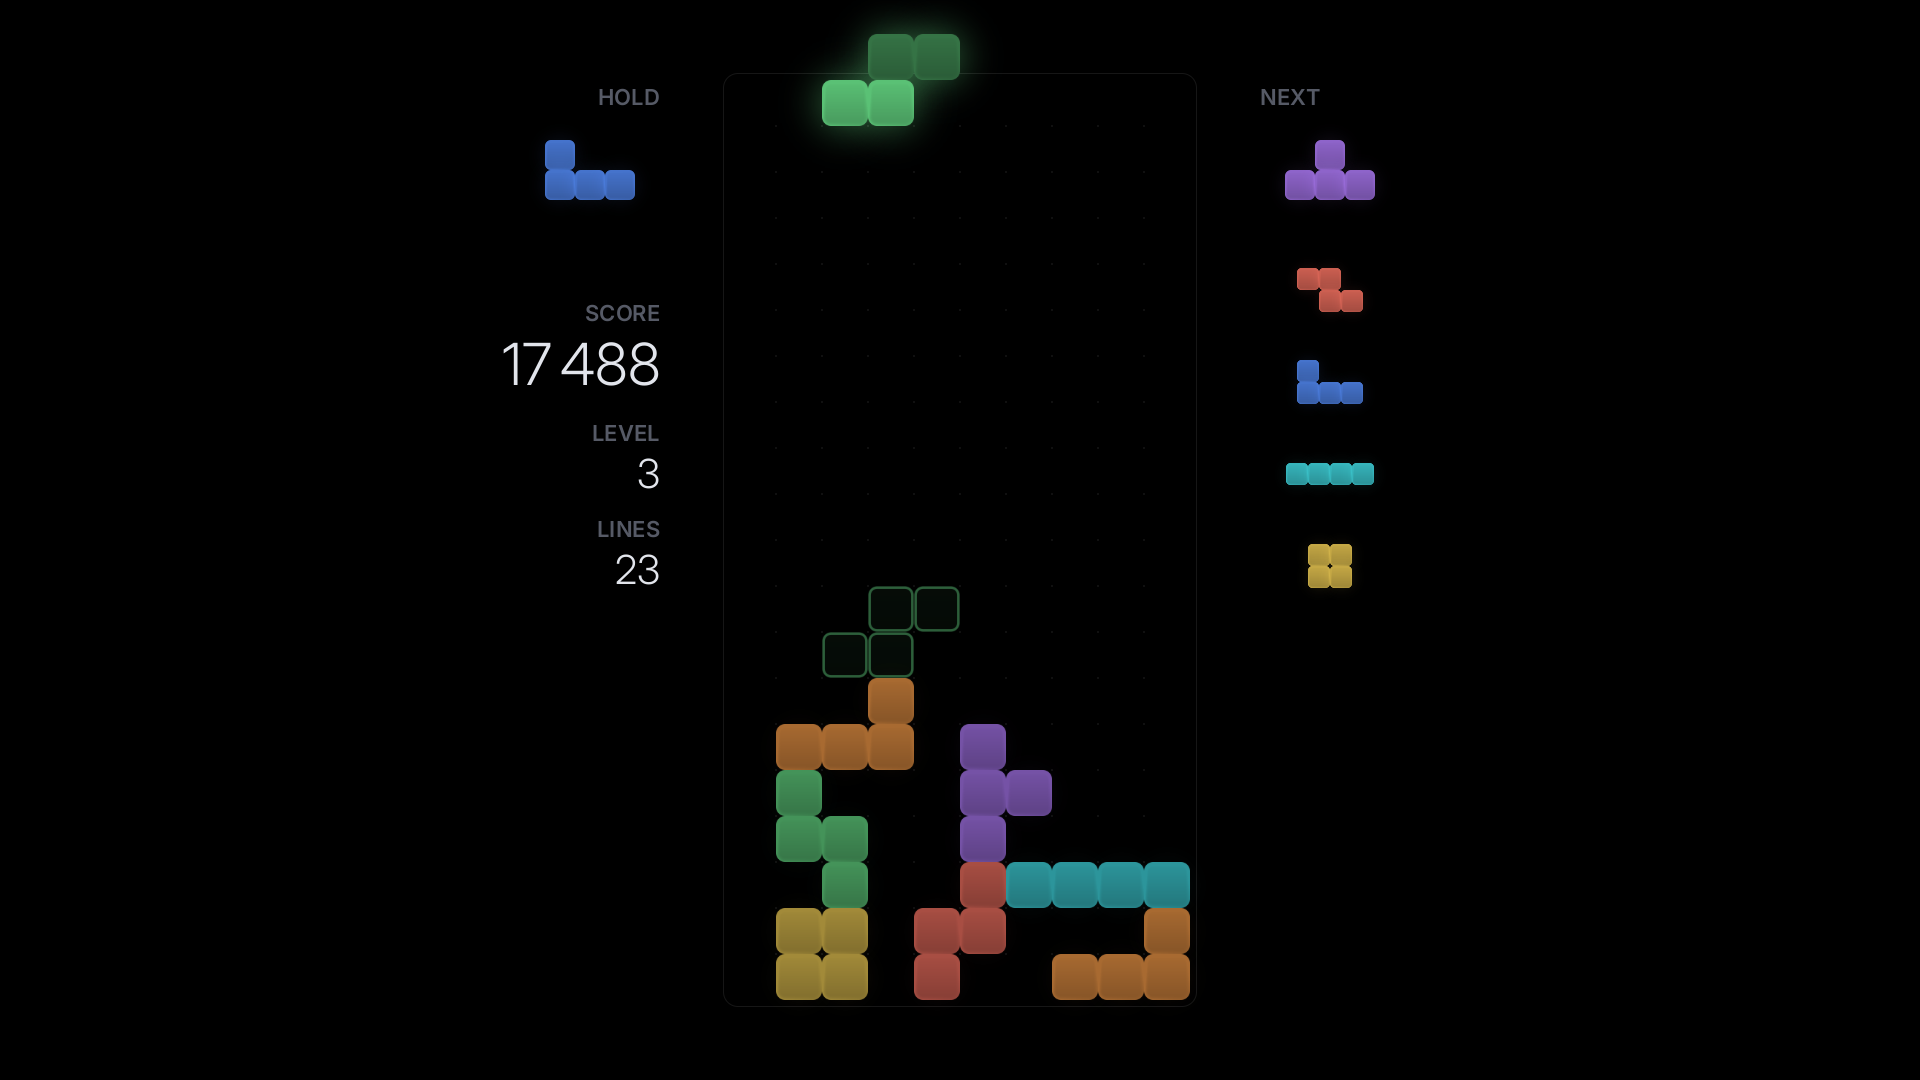
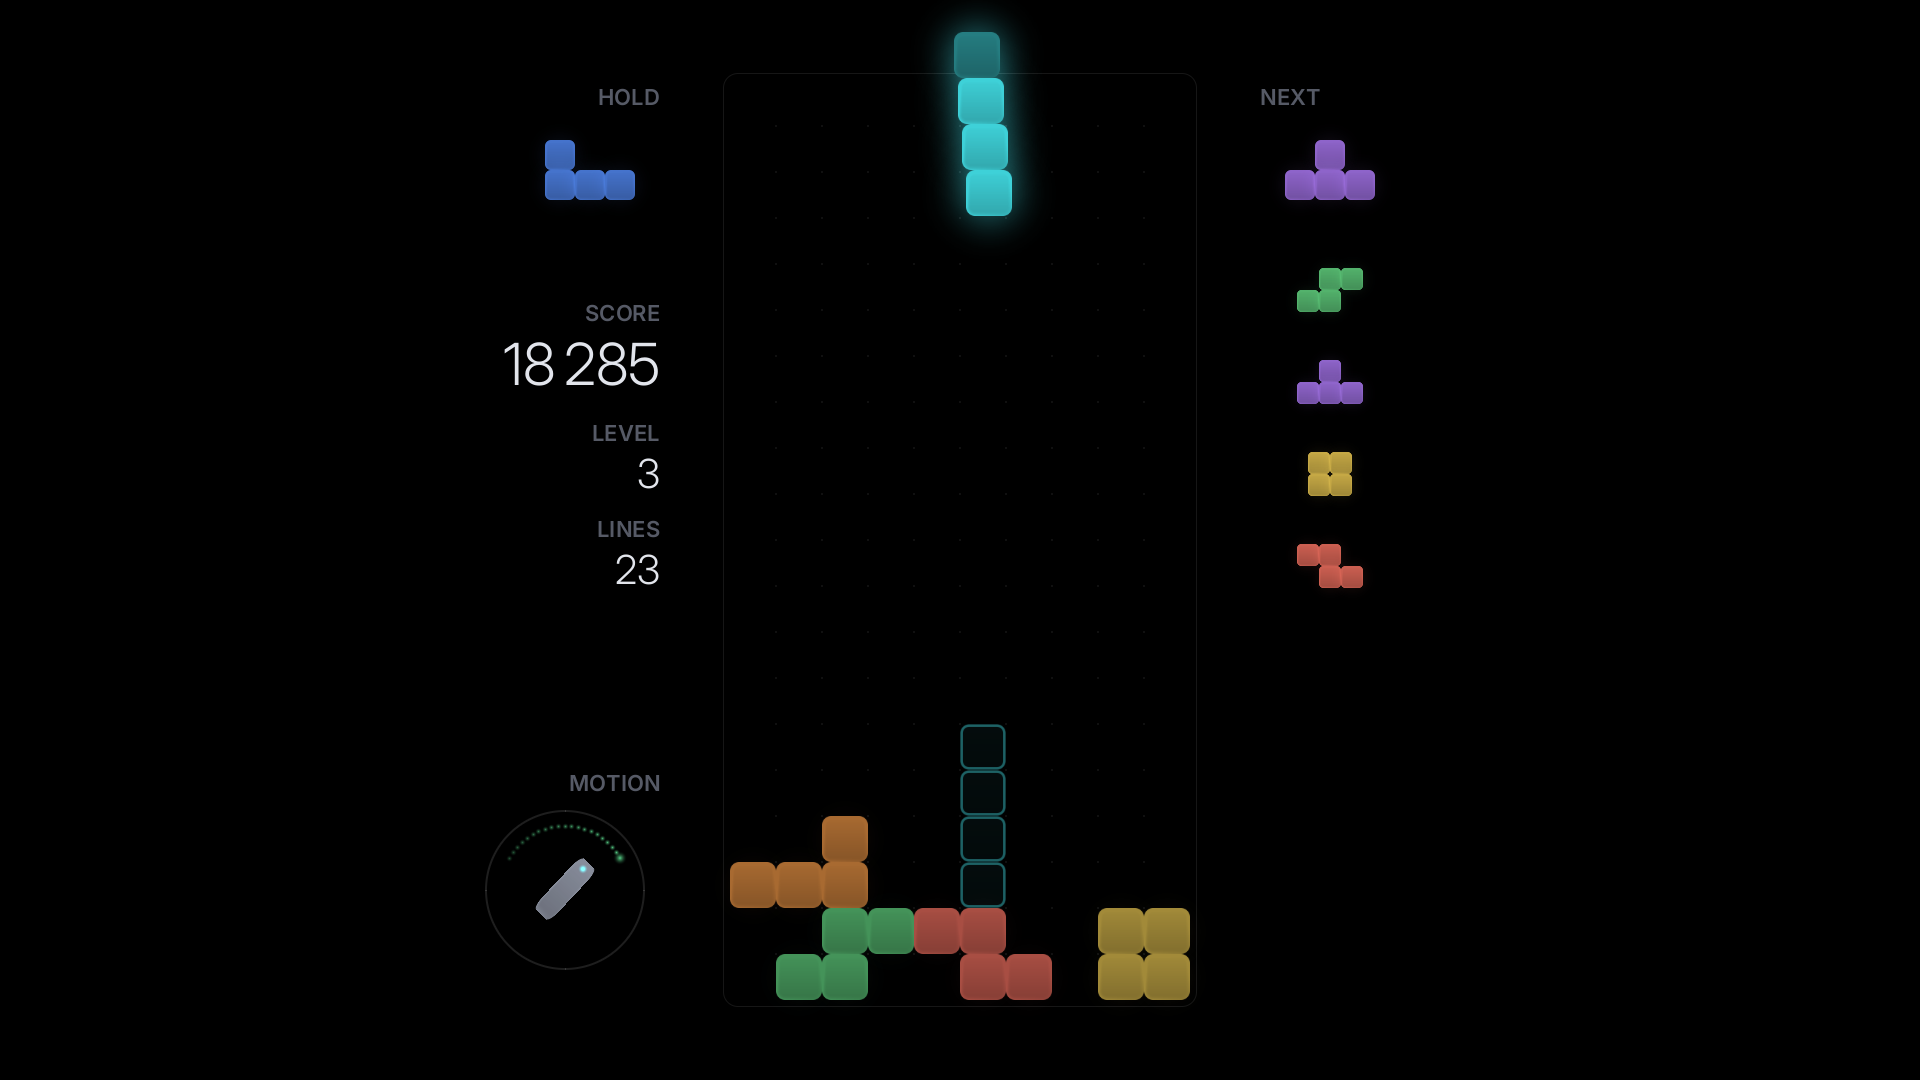
Live remote indicator while playing with motion (0.2.8)
Requested: a small remote-shaped indicator on screen during motion play, like
the one in Input diagnostics, for feedback while playing.

- illus::remote_live: a small remote under the stats (MOTION) offset by the
  recent aim movement and rotated by the wrist twist; an arc fills toward a
  rotation (twist delta or circle turning over its threshold); each
  recognized gesture flashes green (arc arrow for rotations, dots sliding
  left/right/down for moves and drops); dims while no data arrives.
- Shown in motion control only; Settings "Remote indicator in play" (on by
  default) turns it off.
- Screenshot tour adds game-remote-twist/flash; README game screenshot shows
  the indicator mid-twist.

Claude-Session: https://claude.ai/code/session_01FQRzQ83ZDMqhWrPg6UQMbf

diff --git a/crates/luma-app/src/illus.rs b/crates/luma-app/src/illus.rs
@@ -322,3 +322,100 @@ pub fn mini_t(g: &mut Gfx, cx: i32, cy: i32, s: f32, deg: f32) {
         );
     }
 }
+
+/// What the in-game remote indicator shows.
+pub struct RemoteLive {
+    /// Recent movement of the aim, screen heights (drifts back to the centre).
+    pub aim: (f32, f32),
+    /// Wrist twist, degrees (clockwise positive).
+    pub twist_deg: f32,
+    /// How close the current rotation gesture is to counting, -1..1 (sign = direction).
+    pub progress: f32,
+    /// Motion data is arriving.
+    pub live: bool,
+    /// The last recognized gesture and how far its flash has faded (0 = fresh, 1 = gone).
+    pub flash: Option<(luma_input::Gesture, f32)>,
+}
+
+/// Small live remote for the play screen: the remote follows the movement and turns with
+/// the wrist, an arc fills toward a rotation, and recognized gestures flash.
+pub fn remote_live(g: &mut Gfx, cx: i32, cy: i32, r: &RemoteLive, now: u64) {
+    use luma_input::Gesture;
+    let dim = if r.live { 1.0 } else { 0.35 };
+    let ring = 78;
+    g.round_outline(
+        Rect::new(cx - ring, cy - ring, (ring * 2) as u32, (ring * 2) as u32),
+        ring,
+        alpha(Color::RGB(255, 255, 255), 0.12 * dim),
+        2,
+    );
+    // Progress toward a rotation.
+    if r.live && r.progress.abs() > 0.08 {
+        let to = r.progress.clamp(-1.0, 1.0) * 120.0;
+        let c = if r.progress.abs() >= 1.0 {
+            theme::OK
+        } else {
+            theme::CYAN
+        };
+        arc(g, cx, cy, ring as f32 + 10.0, 0.0, to, alpha(c, 0.8));
+    }
+    // The remote: offset by recent movement, rotated by the twist.
+    let k = 260.0;
+    let px = cx + (r.aim.0 * k).clamp(-48.0, 48.0) as i32;
+    let py = cy + (r.aim.1 * k).clamp(-48.0, 48.0) as i32;
+    let (w, h) = (22u32, 70u32);
+    let dst = Rect::new(px - w as i32 / 2, py - h as i32 / 2, w, h);
+    let body = scale(REMOTE, if r.live { 1.0 } else { 0.5 });
+    g.tex.block.set_color_mod(body.r, body.g, body.b);
+    g.tex.block.set_alpha_mod((230.0 * dim) as u8);
+    g.tex.block.set_blend_mode(sdl2::render::BlendMode::Blend);
+    let _ = g
+        .canvas
+        .copy_ex(&g.tex.block, None, dst, r.twist_deg as f64, None, false, false);
+    // Emitter at the tip, turning with the body.
+    let a = (r.twist_deg - 90.0).to_radians();
+    let tip = (px as f32 + 27.0 * a.cos(), py as f32 + 27.0 * a.sin());
+    let canvas = &mut g.canvas;
+    Gfx::tinted(
+        &mut g.tex.dot,
+        canvas,
+        Rect::new(tip.0 as i32 - 5, tip.1 as i32 - 5, 10, 10),
+        alpha(theme::CYAN, dim),
+        true,
+    );
+    // Recognized gesture.
+    let Some((gesture, t)) = r.flash else { return };
+    if t >= 1.0 {
+        return;
+    }
+    let a = 1.0 - t;
+    let c = alpha(theme::OK, a);
+    match gesture {
+        Gesture::RotateCw => arc(g, cx, cy, ring as f32 - 14.0, -60.0, 60.0, c),
+        Gesture::RotateCcw => arc(g, cx, cy, ring as f32 - 14.0, 60.0, -60.0, c),
+        Gesture::MoveLeft | Gesture::MoveRight | Gesture::HardDrop => {
+            let (dx, dy) = match gesture {
+                Gesture::MoveLeft => (-1.0, 0.0),
+                Gesture::MoveRight => (1.0, 0.0),
+                _ => (0.0, 1.0),
+            };
+            // Three dots sliding outward in the gesture's direction.
+            let travel = 30.0 * t;
+            for i in 0..3 {
+                let d = 34.0 + i as f32 * 16.0 + travel;
+                let x = cx as f32 + dx * d;
+                let y = cy as f32 + dy * d;
+                let s = 8 + i * 3;
+                let canvas = &mut g.canvas;
+                Gfx::tinted(
+                    &mut g.tex.dot,
+                    canvas,
+                    Rect::new(x as i32 - s / 2, y as i32 - s / 2, s as u32, s as u32),
+                    alpha(theme::OK, a * (0.5 + 0.25 * i as f32)),
+                    true,
+                );
+            }
+        }
+    }
+    let _ = now;
+}

diff --git a/crates/luma-app/src/screens.rs b/crates/luma-app/src/screens.rs
@@ -3,6 +3,7 @@
 use crate::app::{motion_summary, App, PauseReason, Screen};
 use crate::audio::Sfx;
 use crate::gfx::{alpha, theme, Face, Gfx, H, W};
+use crate::illus::RemoteLive as RemoteLiveState;
 use crate::store::ControlMode;
 use crate::strings as S;
 use crate::ui::{Ev, Item, UiIn};
@@ -41,6 +42,7 @@ enum Act {
     Sideways,
     DropGesture,
     DropSlide,
+    RemoteHud,
     SensSide,
     SensRot,
     SensDrop,
@@ -202,6 +204,10 @@ impl App {
                     (
                         Item::choice(S::DROP_SLIDE, drop_slide_label(st.drop_slide_ms)),
                         Act::DropSlide,
+                    ),
+                    (
+                        Item::choice(S::REMOTE_HUD, on_off(st.remote_hud)).disabled(!motion),
+                        Act::RemoteHud,
                     ),
                     (
                         Item::choice(S::SENS_SIDE, format!("{:.1}", p.sens_horizontal)).disabled(!motion),
@@ -487,6 +493,7 @@ impl App {
                 st.profile.horizontal = order[(i + d).rem_euclid(3) as usize];
             }
             Act::DropGesture => st.profile.gesture_drop = !st.profile.gesture_drop,
+            Act::RemoteHud => st.remote_hud = !st.remote_hud,
             Act::DropSlide => {
                 let opts = [
                     0,
@@ -620,6 +627,50 @@ impl App {
             }
             _ => {}
         }
+    }
+
+    /// The small live remote under the stats while playing with motion.
+    fn draw_remote_hud(&mut self, g: &mut Gfx, now: u64) {
+        if !self.motion_control_active() || !self.store.settings.remote_hud {
+            return;
+        }
+        let e = &self.engine;
+        let f = e.debug.last_frame;
+        let eff = luma_input::config::effective(&e.cfg, &e.profile);
+        let progress = match e.profile.rotation {
+            RotationStyle::Twist if e.twist.phase == luma_input::recognize::Phase::Candidate => {
+                e.twist.last_delta / eff.twist_enter_deg.max(1.0)
+            }
+            RotationStyle::Circle if e.circle.is_candidate() => {
+                e.circle.best.turn_deg / eff.circle_min_turn_deg.max(1.0)
+            }
+            _ => 0.0,
+        };
+        let flash = e.debug.recent.back().map(|c| {
+            (
+                c.gesture,
+                (now.saturating_sub(c.t_us) as f32 / 650_000.0).min(1.0),
+            )
+        });
+        let live = RemoteLiveState {
+            aim: (f.aim.x, f.aim.y),
+            twist_deg: f.twist_deg.unwrap_or(0.0),
+            progress,
+            live: self.motion.is_streaming(now),
+            flash,
+        };
+        let lx = BOARD_X - 70;
+        let cx = lx - 95;
+        let cy = BOARD_Y + 810;
+        g.text_right(
+            S::HUD_MOTION,
+            lx,
+            BOARD_Y + 690,
+            22.0,
+            Face::Semi,
+            theme::TEXT_FAINT,
+        );
+        crate::illus::remote_live(g, cx, cy, &live, now);
     }
 
     fn draw_settings_help(&mut self, g: &mut Gfx) {
@@ -823,6 +874,7 @@ impl App {
                 if let Some((text, c, a)) = note {
                     g.text_centered(text, W / 2, BOARD_Y - 60, 28.0, Face::Regular, alpha(c, a));
                 }
+                self.draw_remote_hud(g, now);
                 let ready = self.session.as_ref().and_then(|s| s.ready_until).is_some();
                 if ready {
                     g.text_centered(

diff --git a/crates/luma-app/src/store.rs b/crates/luma-app/src/store.rs
@@ -58,6 +58,8 @@ pub struct Settings {
     pub zen_level: u32,
     /// After a hard drop the piece can still be slid or turned this long, ms (0 = off).
     pub drop_slide_ms: u32,
+    /// Show the small live remote next to the board while playing with motion.
+    pub remote_hud: bool,
     /// Hide the system cursor during play while the motion sensor is streaming.
     pub hide_cursor: bool,
     pub developer: bool,
@@ -86,6 +88,7 @@ impl Default for Settings {
             marathon_start_level: 1,
             zen_level: 1,
             drop_slide_ms: DROP_SLIDE_SHORT_MS,
+            remote_hud: true,
             hide_cursor: true,
             developer: false,
             legacy_quat_order: LegacyQuatOrder::default(),

diff --git a/crates/luma-app/src/main.rs b/crates/luma-app/src/main.rs
@@ -264,6 +264,12 @@ fn screenshots(app: &mut app::App, g: &mut gfx::Gfx, dir: &str) -> Result<(), St
         s.game.apply(Action::MoveLeft);
     }
     shot(app, g, "game", 20)?;
+    // The live remote mid-twist (the twist about to count), and the flash just after.
+    if let Some(sim) = app.motion.sim() {
+        sim.play(motion::Script::TwistCw);
+    }
+    shot(app, g, "game-remote-twist", 9)?;
+    shot(app, g, "game-remote-flash", 14)?;
     app.pause(app::PauseReason::User);
     shot(app, g, "pause", 10)?;
     app.quit_to_menu();

diff --git a/crates/luma-app/src/strings.rs b/crates/luma-app/src/strings.rs
@@ -85,6 +85,8 @@ pub const SIDE_POINT_HINT: &str = "The piece follows where you point";
 pub const SIDE_FLICK_HINT: &str = "One column per flick";
 pub const DROP_GESTURE: &str = "Drop with a downward flick";
 pub const DROP_SLIDE: &str = "Move after a drop";
+pub const REMOTE_HUD: &str = "Remote indicator in play";
+pub const HUD_MOTION: &str = "MOTION";
 pub const DROP_SLIDE_OFF: &str = "Off (locks at once)";
 pub const DROP_SLIDE_SHORT: &str = "Short";
 pub const DROP_SLIDE_LONG: &str = "Long";

diff --git a/docs/RELEASE_NOTES.md b/docs/RELEASE_NOTES.md
@@ -1,13 +1,22 @@
-# Luma Blocks 0.2.7 (test build)
+# Luma Blocks 0.2.8 (test build)
 
 A minimalist falling-block puzzle for LG webOS TVs with Magic Remote motion controls.
 
 **Pre-release.** Built, ABI-audited and smoke-tested under ARM emulation; game and gesture logic
 covered by automated tests. On-TV feedback drove this release; motion behaviour on real remotes
 still needs confirming
-([TV checklist](https://github.com/danzig666/luma-blocks-webos/blob/v0.2.7/docs/TV_CHECKLIST.md)).
+([TV checklist](https://github.com/danzig666/luma-blocks-webos/blob/v0.2.8/docs/TV_CHECKLIST.md)).
 
-## What changed since 0.2.6
+## What changed since 0.2.7
+
+* **Live remote indicator while playing with motion.** A small remote under the stats
+  (MOTION) follows your movement and turns with your wrist, like in Input diagnostics. An arc
+  fills as a rotation gesture builds up (twist or circle), and each recognized gesture
+  flashes green: an arrow for a rotation, dots sliding left, right or down for a move or a
+  drop. It dims while the remote is not reporting. Settings → "Remote indicator in play"
+  turns it off.
+
+## Earlier: 0.2.7 (since 0.2.6)
 
 Feedback: using a button in motion mode immediately "broke" motion, with the reconnecting
 note flashing above the board.
@@ -163,13 +172,13 @@ pointer did not show.
 
 ## Downloads
 
-* `io.github.danzig666.lumablocks_0.2.7_arm.ipk`: **Luma Blocks**
-* `io.github.danzig666.lumablocks.debug_0.2.7_arm.ipk`: **Luma Blocks (Dev)**, a separate
+* `io.github.danzig666.lumablocks_0.2.8_arm.ipk`: **Luma Blocks**
+* `io.github.danzig666.lumablocks.debug_0.2.8_arm.ipk`: **Luma Blocks (Dev)**, a separate
   identity with separate saves
 * `SHA256SUMS.txt`, plus the Homebrew Channel manifest
 
 Install: Developer Mode (`ares-install`) or Homebrew Channel / Dev Manager. See
-[INSTALL](https://github.com/danzig666/luma-blocks-webos/blob/v0.2.7/docs/INSTALL.md).
+[INSTALL](https://github.com/danzig666/luma-blocks-webos/blob/v0.2.8/docs/INSTALL.md).
 
 **For testers:** please run Settings → Calibrate the remote first. If gestures still feel wrong,
 turn on Settings → More → Developer options, open **Input diagnostics**, record a trace with Red

diff --git a/docs/CONTROLS.md b/docs/CONTROLS.md
@@ -37,6 +37,11 @@
 | **Move after a drop** | after a drop (gesture or OK) the piece rests on the stack for a moment before it locks; a late swing, twist or button press still slides or turns it, and it drops straight down again if it slides off a ledge. A swing that is under way when the time runs out holds the piece up to 0.4 s longer, so its move still lands. A shrinking line under the piece shows the time left. Drop again to lock at once. Off / Short (0.3 s, default) / Long (0.6 s). |
 
 * Rotation and sideways styles combine freely.
+* While you play with motion, a small live remote under the stats (MOTION) follows your
+  movement and turns with your wrist. An arc fills as a rotation gesture builds up, and every
+  recognized gesture flashes green (an arrow for a rotation, dots sliding left, right or down
+  for a move or a drop). It dims while the remote is not reporting. Turn it off with
+  Settings → **Remote indicator in play**.
 * Each gesture type has its own sensitivity (0.5–2.0). For Swing, higher sensitivity means
   fewer degrees per column.
 * **Gesture practice** shows each recognized gesture and how long it took to decide.

diff --git a/README.md b/README.md
@@ -14,7 +14,7 @@ sensor or with ordinary remote buttons.** Native Rust, SDL2 and OpenGL ES 2, tru
 | | |
 |---|---|
 | ![Game](docs/screenshots/game.png) | ![Menu](docs/screenshots/menu.png) |
-| Marathon on true black: soft halos, dim outlined landing preview | Main menu |
+| Marathon on true black: soft halos, dim outlined landing preview, and the live remote indicator (bottom left) mid-twist | Main menu |
 | ![Gesture style](docs/screenshots/onboarding-style.png) | ![Line clear](docs/screenshots/line-clear.png) |
 | First-run choice of gesture styles, with animated illustrations | A four-line clear: flash, centre-out dissolve, stack falls into place |
 | ![Setup: twist](docs/screenshots/calibration-twist.png) | ![Setup: try it](docs/screenshots/calibration-try.png) |

diff --git a/docs/BUILDING.md b/docs/BUILDING.md
@@ -72,7 +72,7 @@ scripts/smoke-armel.sh target/armv7-unknown-linux-gnueabi/release/luma-blocks de
 python3 scripts/gen-notices.py --licenses-dir build/licenses && cp -r deps-out/webos/licenses/* build/licenses/
 for f in release debug; do
   python3 scripts/package-ipk.py --binary target/armv7-unknown-linux-gnueabi/release/luma-blocks \
-    --sdl-lib deps-out/webos/lib/libSDL2-2.0.so.0 --version 0.2.7 --flavor $f \
+    --sdl-lib deps-out/webos/lib/libSDL2-2.0.so.0 --version 0.2.8 --flavor $f \
     --strip $WEBOS_SDK/bin/arm-webos-linux-gnueabi-strip --licenses build/licenses --out dist
 done
 ```
